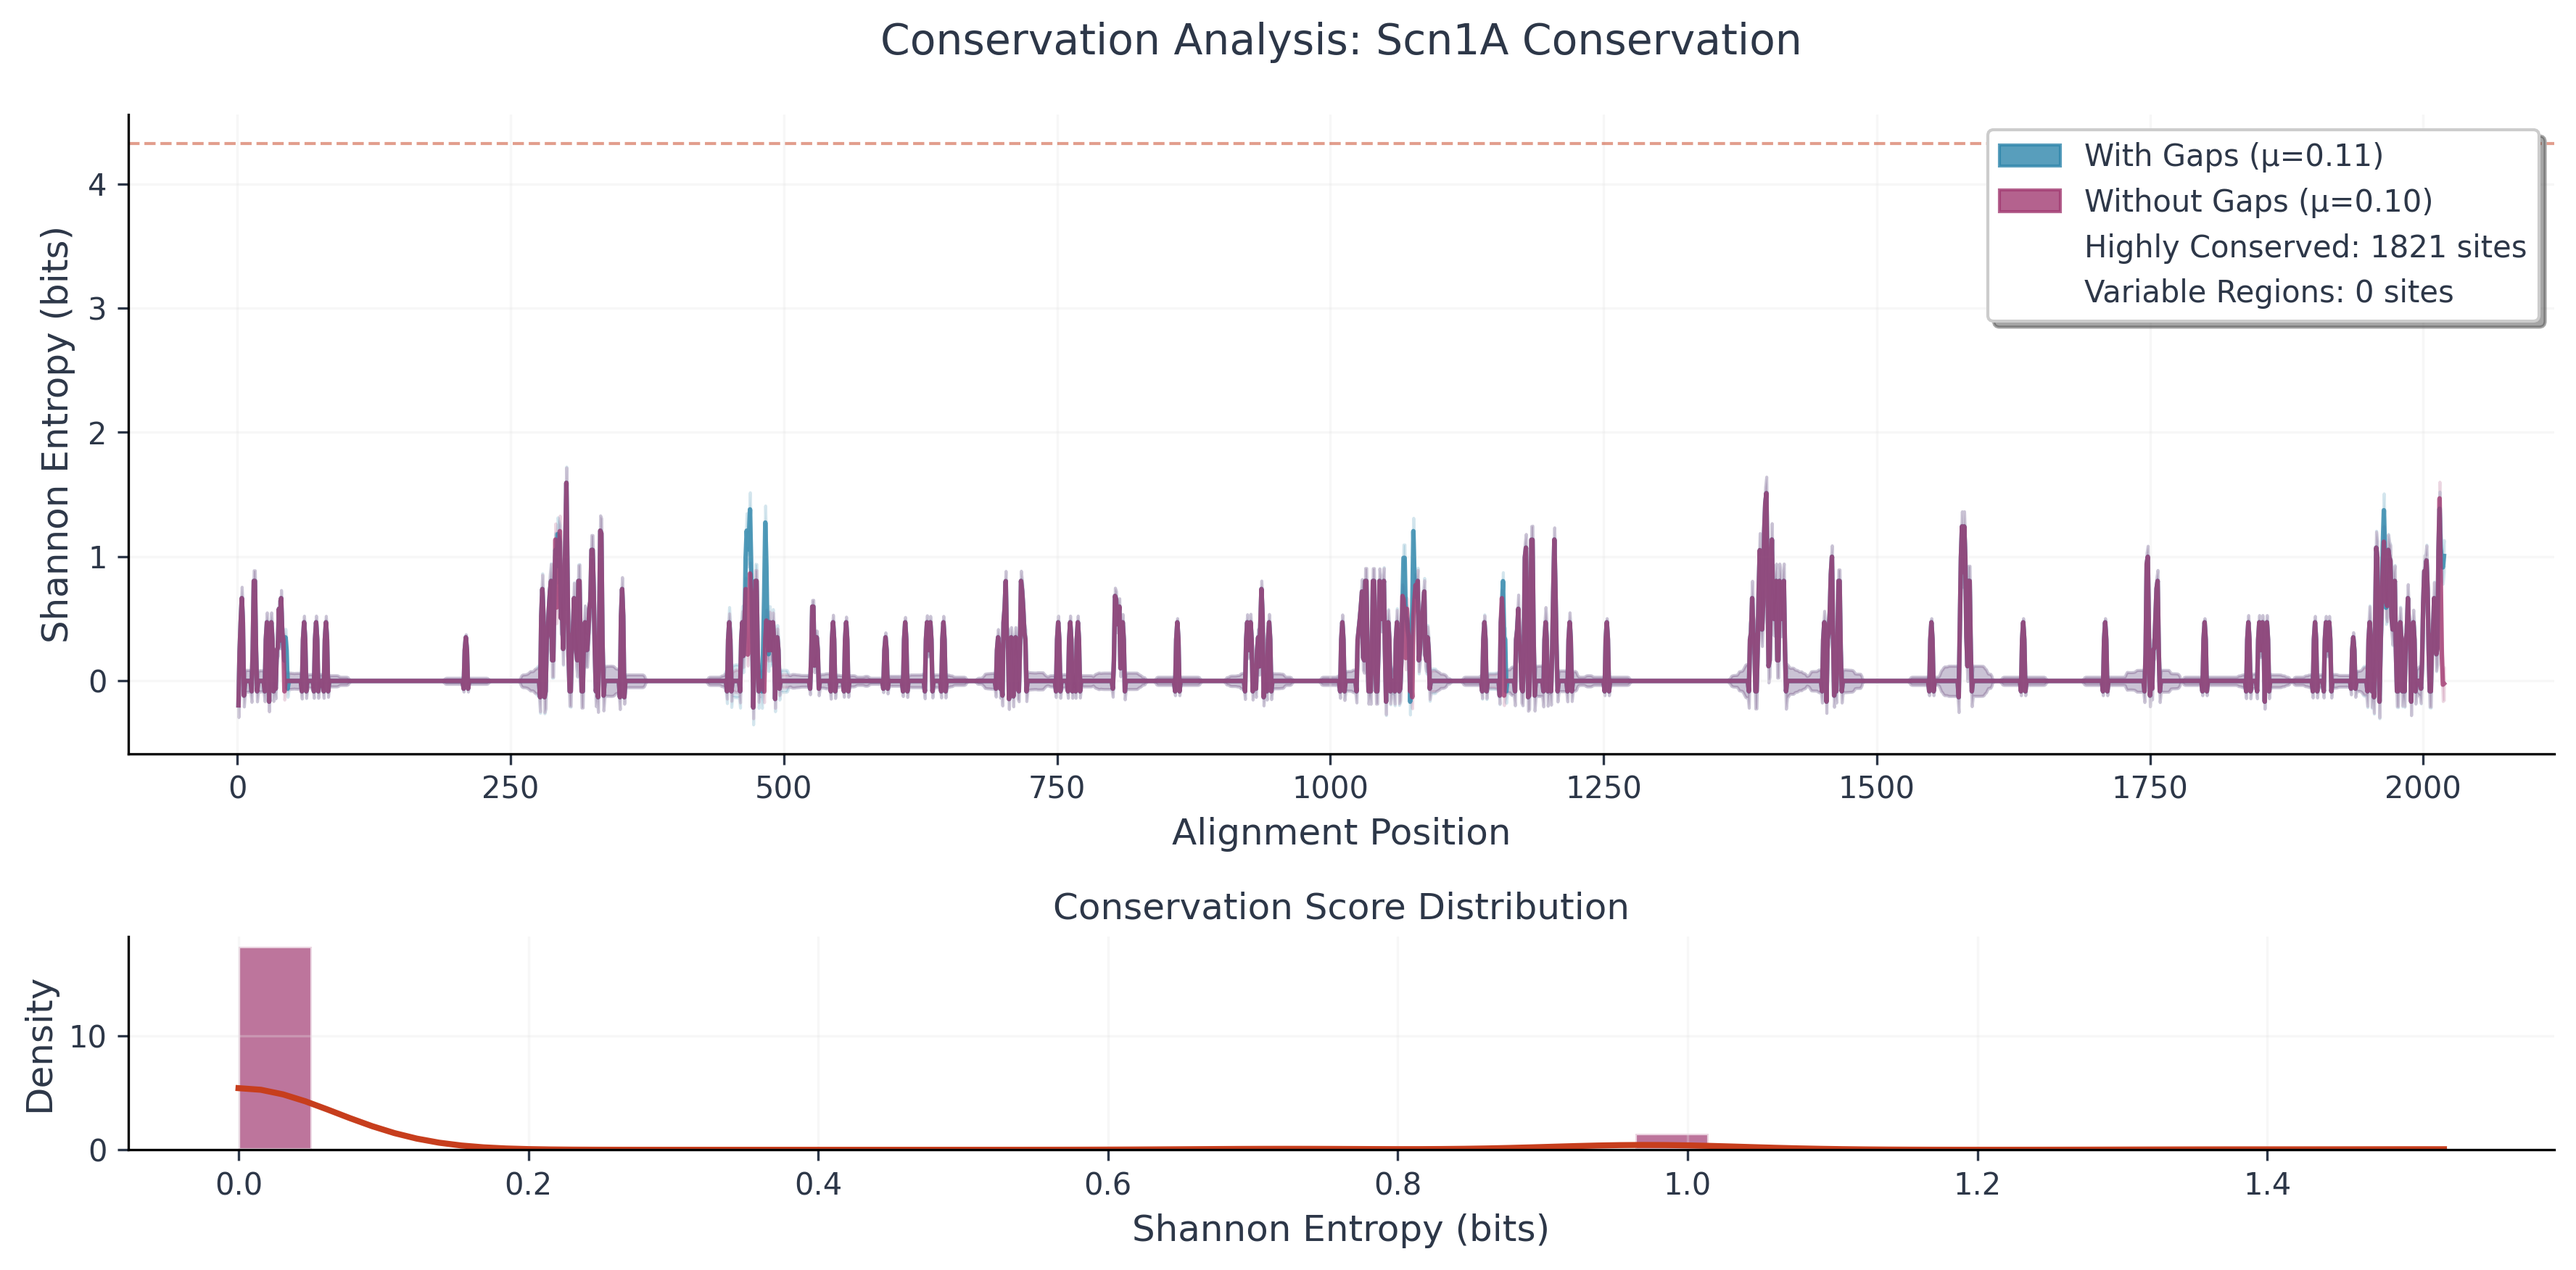
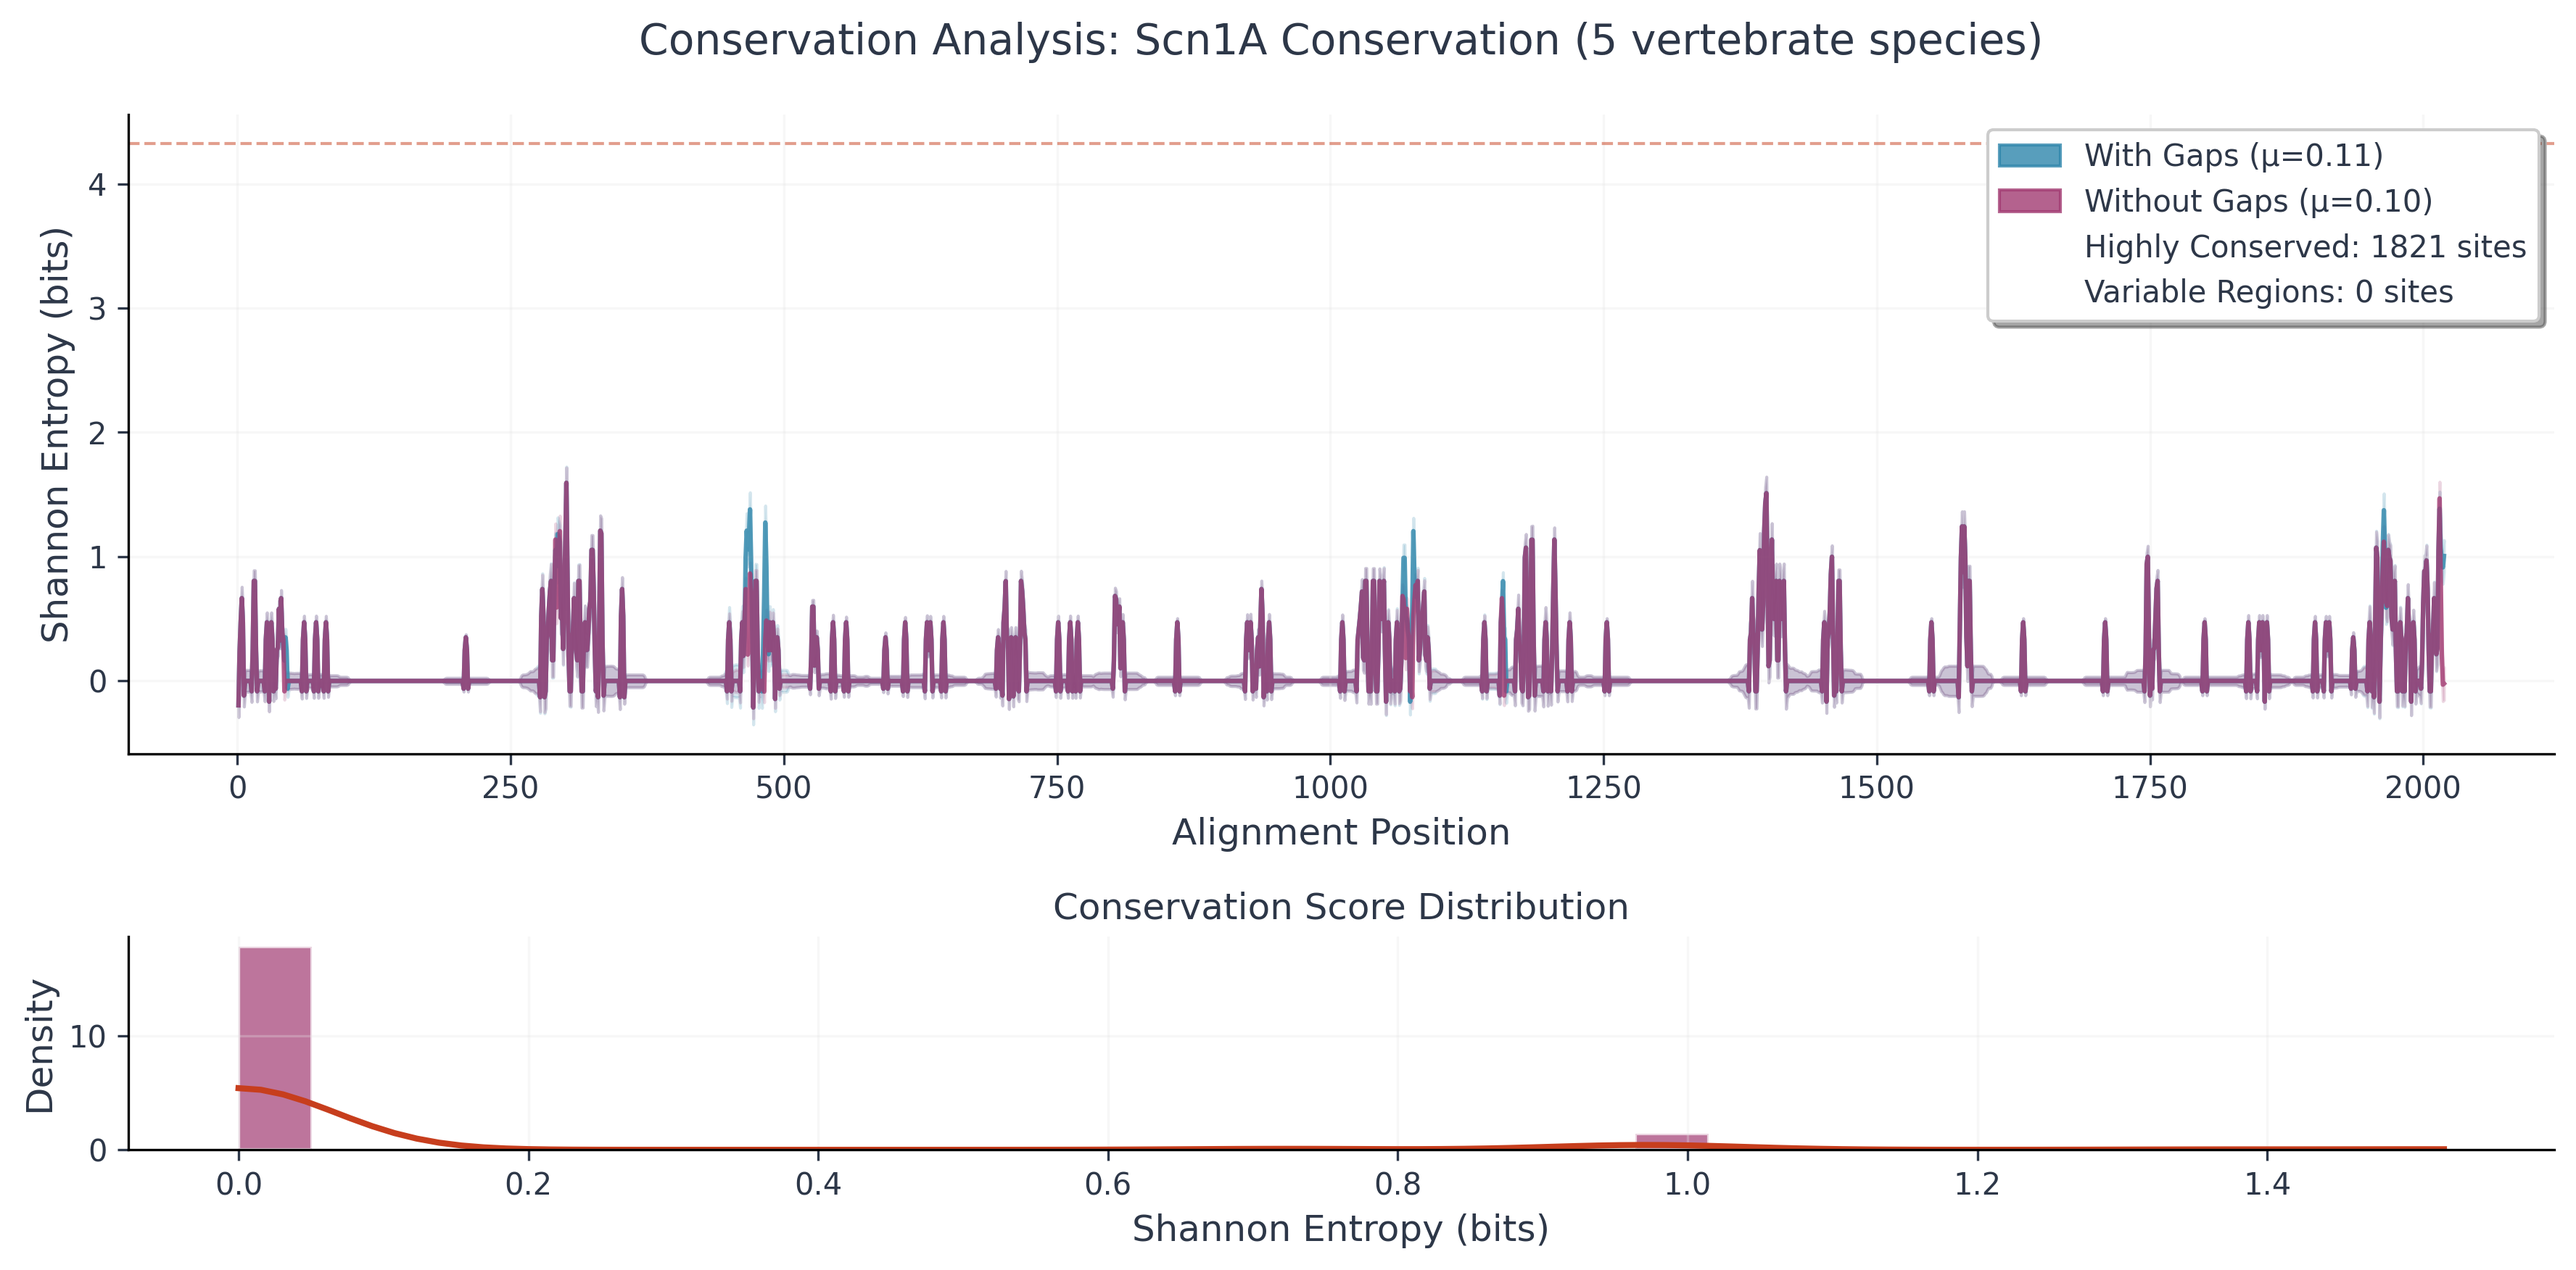
loss of function more obvious on histogram

Changed region(s): [[0.25, 0.0, 0.7812, 0.0616]]

diff --git a/src/comparative_genomics_pipeline/visualization/scientific_plots.py b/src/comparative_genomics_pipeline/visualization/scientific_plots.py
@@ -135,7 +135,7 @@ class ConservationPlotter(BasePlotter):
         # Formatting
         ax.set_xlabel('Alignment Position', fontsize=self.theme.label_fontsize)
         ax.set_ylabel('Shannon Entropy (bits)', fontsize=self.theme.label_fontsize)
-        ax.set_title(f'Conservation Analysis: {title_base.replace("_", " ").title()}',
+        ax.set_title(f'Conservation Analysis: {title_base.replace("_", " ").title()} (5 vertebrate species)',
                     fontsize=self.theme.title_fontsize, pad=20)
         
         # Add grid
@@ -263,7 +263,7 @@ class PhylogeneticPlotter(BasePlotter):
     
     def _enhance_tree_plot(self, ax: plt.Axes, tree, title_base: str) -> None:
         """Enhance tree plot with scientific formatting."""
-        ax.set_title(f'Phylogenetic Tree: {title_base.replace("_", " ").title()}',
+        ax.set_title(f'Phylogenetic Tree: {title_base.replace("_", " ").title()} (5 vertebrate species)',
                     fontsize=self.theme.title_fontsize, pad=20)
         
         # Remove axis ticks and labels for cleaner look
@@ -457,7 +457,7 @@ class VariantPlotter(BasePlotter):
         # Formatting
         ax.set_xlabel('Protein Position', fontsize=self.theme.label_fontsize)
         ax.set_ylabel('Conservation (Shannon Entropy)', fontsize=self.theme.label_fontsize)
-        ax.set_title(f'Conservation & Variants: {title_base.replace("_", " ").title()}',
+        ax.set_title(f'Conservation & Variants: {title_base.replace("_", " ").title()} (5 vertebrate species)',
                     fontsize=self.theme.title_fontsize, pad=20)
         
         ax.grid(True, alpha=self.theme.grid_alpha)
@@ -478,6 +478,19 @@ class VariantPlotter(BasePlotter):
         variant_scores = stats_results['variant_conservation']
         background_scores = stats_results['background_conservation']
         
+        # Get LoF variant conservation scores
+        lof_positions = [177, 227, 393, 939, 959, 1289]
+        variant_positions = vars_df['parsed_position'].values
+        lof_mask = np.isin(variant_positions, lof_positions)
+        
+        # Get conservation scores for LoF variants
+        lof_conservation = []
+        for pos in variant_positions[lof_mask]:
+            if pos in consv_df['Position'].values:
+                conservation_score = consv_df[consv_df['Position'] == pos]['ShannonEntropy_NoGaps'].iloc[0]
+                lof_conservation.append(conservation_score)
+        lof_conservation = np.array(lof_conservation)
+        
         # Create overlaid histograms
         bins = np.linspace(min(np.min(variant_scores), np.min(background_scores)),
                           max(np.max(variant_scores), np.max(background_scores)), 20)
@@ -486,6 +499,11 @@ class VariantPlotter(BasePlotter):
                color=self.theme.primary_color, label='Background', edgecolor='white')
         ax.hist(variant_scores, bins=bins, alpha=0.7, density=True,
                color=self.theme.accent_color, label='Variants', edgecolor='white')
+        
+        # Add LoF variants if we have any
+        if len(lof_conservation) > 0:
+            ax.hist(lof_conservation, bins=bins, alpha=0.8, density=True,
+                   color='red', label='Loss-of-function', edgecolor='white')
         
         # Add mean lines
         ax.axvline(stats_results['background_mean'], color=self.theme.primary_color,

diff --git a/README.md b/README.md
@@ -121,6 +121,8 @@ Confirmed that loss of function variants occurred in highly conserved regions, w
 
 **Reference:** [Science Translational Medicine - Interneuron-specific dual-AAV SCN1A gene replacement corrects epileptic phenotypes in mouse models of Dravet syndrome](https://www.science.org/doi/10.1126/scitranslmed.adn5603)
 
+Updated conservation-variant plot to separate LoF variants (red) from all variants (orange) in the bottom histogram for better visualization of where critical variants cluster in the conservation distribution.
+
 ---
 
 *Self-directed computational biology project. Ongoing development and validation.*
